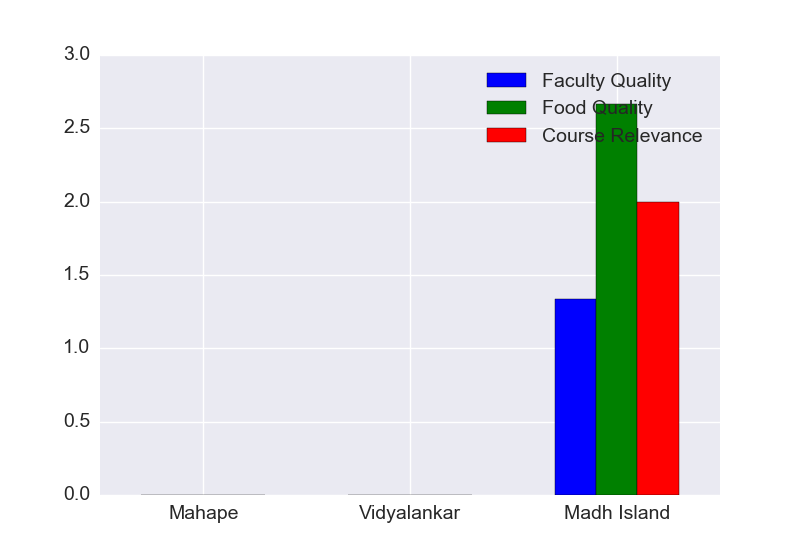
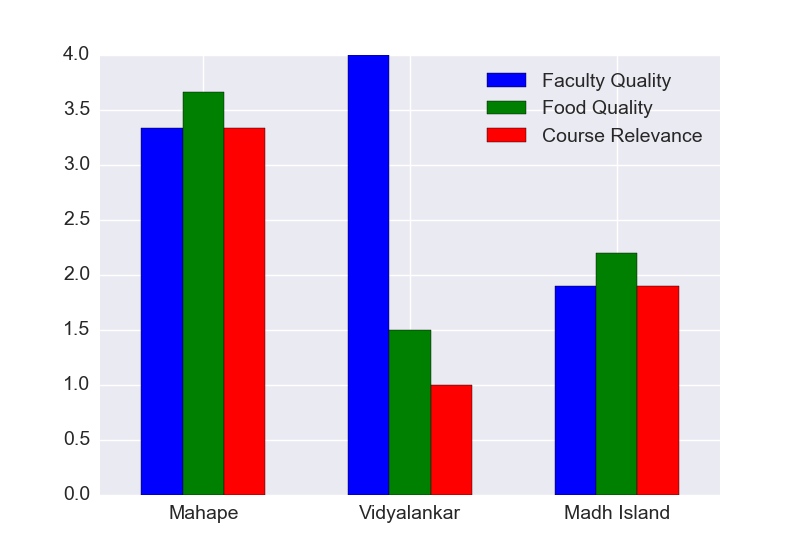
Added Graphing Scripts for Location-Session graphs

diff --git a/analyzer/FirebaseRetriever.py b/analyzer/FirebaseRetriever.py
@@ -37,15 +37,18 @@ if __name__ == '__main__':
                 columns.append(sub_keys)
             break
 
+    columns = set(columns)
+    columns = list(columns)
     dataframe = pd.DataFrame(columns=columns)
-    print columns
     counter = 0
+    print columns
 
     print ""
     print "Printing Element Wise Result"
     print ""
     for element in result:
         print element
+        print result[element]
         for submission_day in result[element] :
             dataframe.loc[counter] = result[element][submission_day]
             counter += 1
@@ -59,6 +62,8 @@ if __name__ == '__main__':
     sns.set(font_scale=1.4)  # crazy big
 
     writer = pd.ExcelWriter('Submissions/kaushalya-feedback.xlsx')
+    dataframe.to_excel(writer,'Feedback')
+
 
 
     '''Student Distribution
@@ -166,4 +171,62 @@ if __name__ == '__main__':
     ax.legend([p1, p2, p3], ['Faculty Quality', 'Food Quality', 'Course Relevance'],loc='upper center', bbox_to_anchor=(0.5, 1.05),
               ncol=3, fancybox=True, shadow=True)
     plt.savefig("Graphs/ratings_session_wise.png")
+
+    '''Get location wise distribution for each Session'''
+    FacultyQualityBySessionNameAndLocation = dict(
+        dataframe.groupby(['Session Name', 'Session Location'])['Faculty Quality'].mean())
+
+    FoodQualityBySessionNameAndLocation = dict(
+        dataframe.groupby(['Session Name', 'Session Location'])['Food Quality'].mean())
+
+    CourseRelevanceBySessionNameAndLocation = dict(dataframe.groupby(['Session Name','Session Location'])['Course Relevance'].mean())
+
+    dataframe_list = [pd.DataFrame(columns=columns) for i in range(3)]
+
+    RatingsBySessionNameAndLocation = [FacultyQualityBySessionNameAndLocation,FoodQualityBySessionNameAndLocation,CourseRelevanceBySessionNameAndLocation]
+
+    label_list = [[] for i in range(3)]
+
+    for i in range(3):
+        print locations[i]
+        sessionRatings = []
+        for j in range(3):
+            sessionRatings.append(generateFrame(RatingsBySessionNameAndLocation[j],locations[i]))
+        dataframe_list[i] = pd.DataFrame(sessionRatings)
+        print dataframe_list[i]
+        label_list[i] = list(dataframe_list[i].columns.values)
+
+    '''Generate Graphs according to the dataframe_list'''
+    print label_list
+
+
+    for i in range(0,3):
+
+        x = np.arange(len(label_list[i]))
+
+        list_of_labels = label_list[i]
+
+        y = list(dataframe_list[i].loc[0])
+        z = list(dataframe_list[i].loc[1])
+        k = list(dataframe_list[i].loc[2])
+
+        plt.clf()
+
+        ax = plt.subplot(111)
+        p1 = ax.bar(x - 0.1, y, width=0.1, color='b', align='center')
+        p2 = ax.bar(x, z, width=0.1, color='g', align='center')
+        p3 = ax.bar(x + 0.1, k, width=0.1, color='r', align='center')
+        ax.xaxis_date()
+        plt.title("Session Wise Average Ratings for" + locations[i])
+        ax.set_xticks([j for j in range(len(list_of_labels))])
+        print label_list[i]
+        ax.set_xticklabels(label_list[i], rotation=90, fontsize=10)
+        plt.tight_layout()
+        ax.legend([p1, p2, p3], ['Faculty Quality', 'Food Quality', 'Course Relevance'], loc='upper center',
+                  bbox_to_anchor=(0.5, 1.05),
+                  ncol=3, fancybox=True, shadow=True)
+        plt.savefig("Graphs/session-wise-by-location-" + locations[i] + ".png")
+
+
+
 

diff --git a/analyzer/utils.py b/analyzer/utils.py
@@ -10,3 +10,11 @@ def fillZeroes(var,dict_entries):
             var[i] = 0
 
     return var
+
+def generateFrame(var,place):
+
+    dict_loc = {}
+    for session, location in var:
+        if location == place :
+            dict_loc[session] = var[(session,location)]
+    return dict_loc
